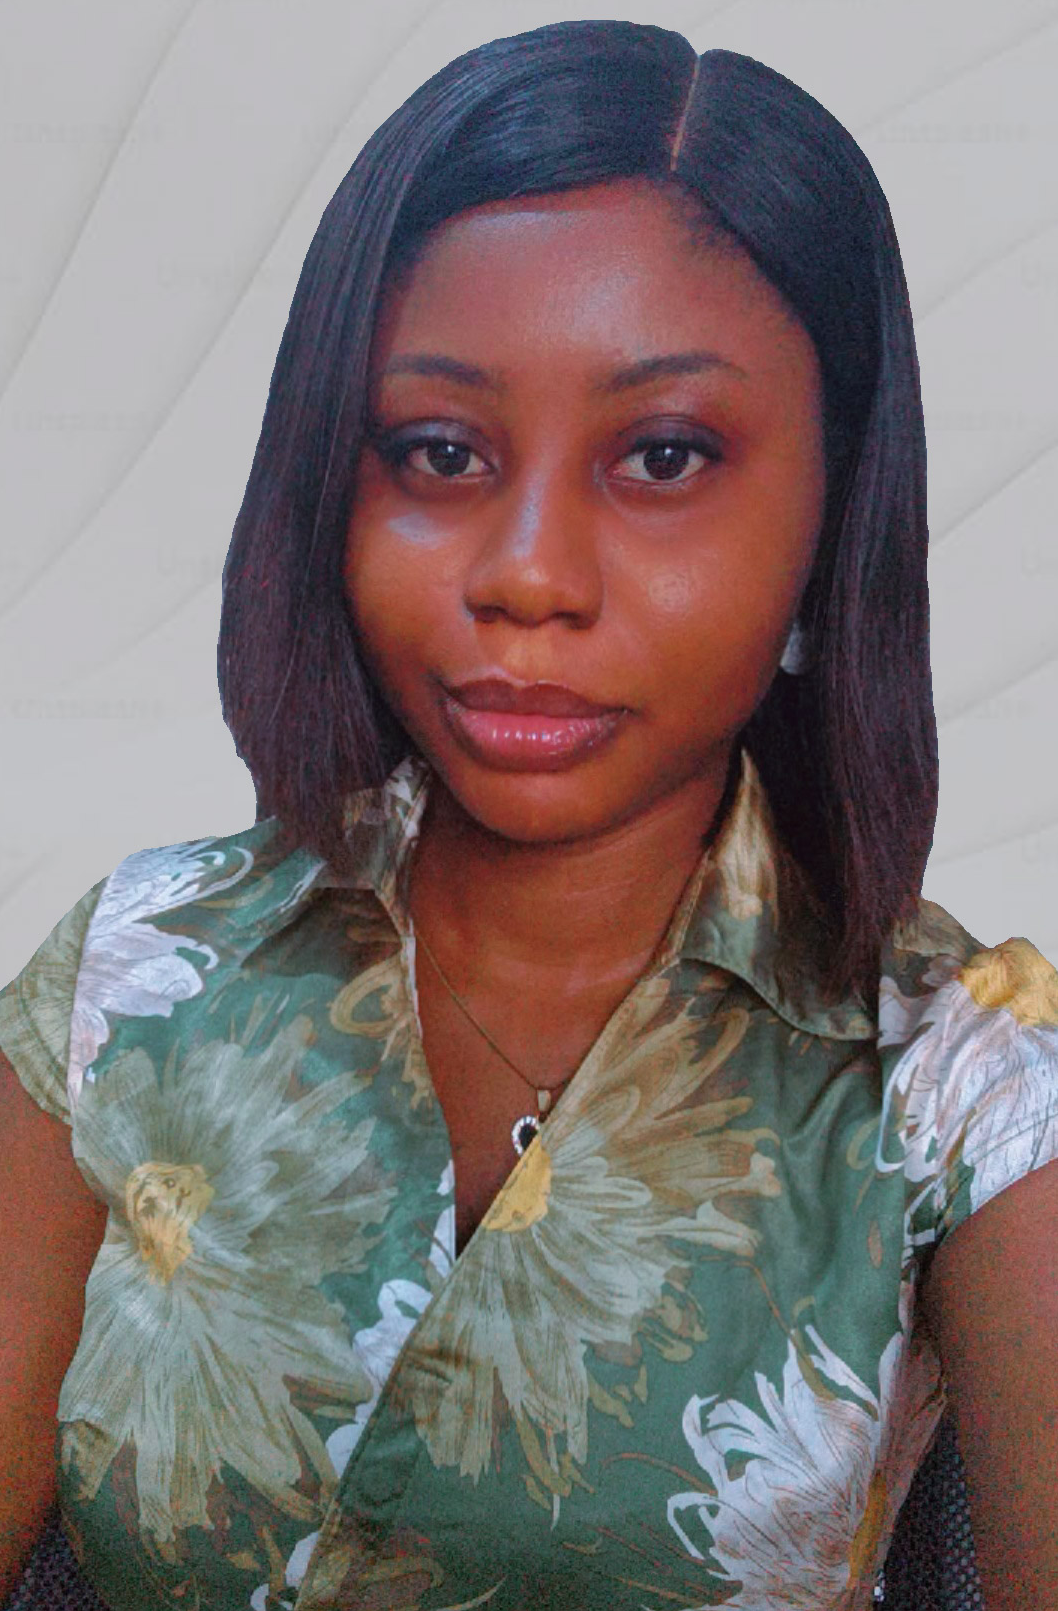
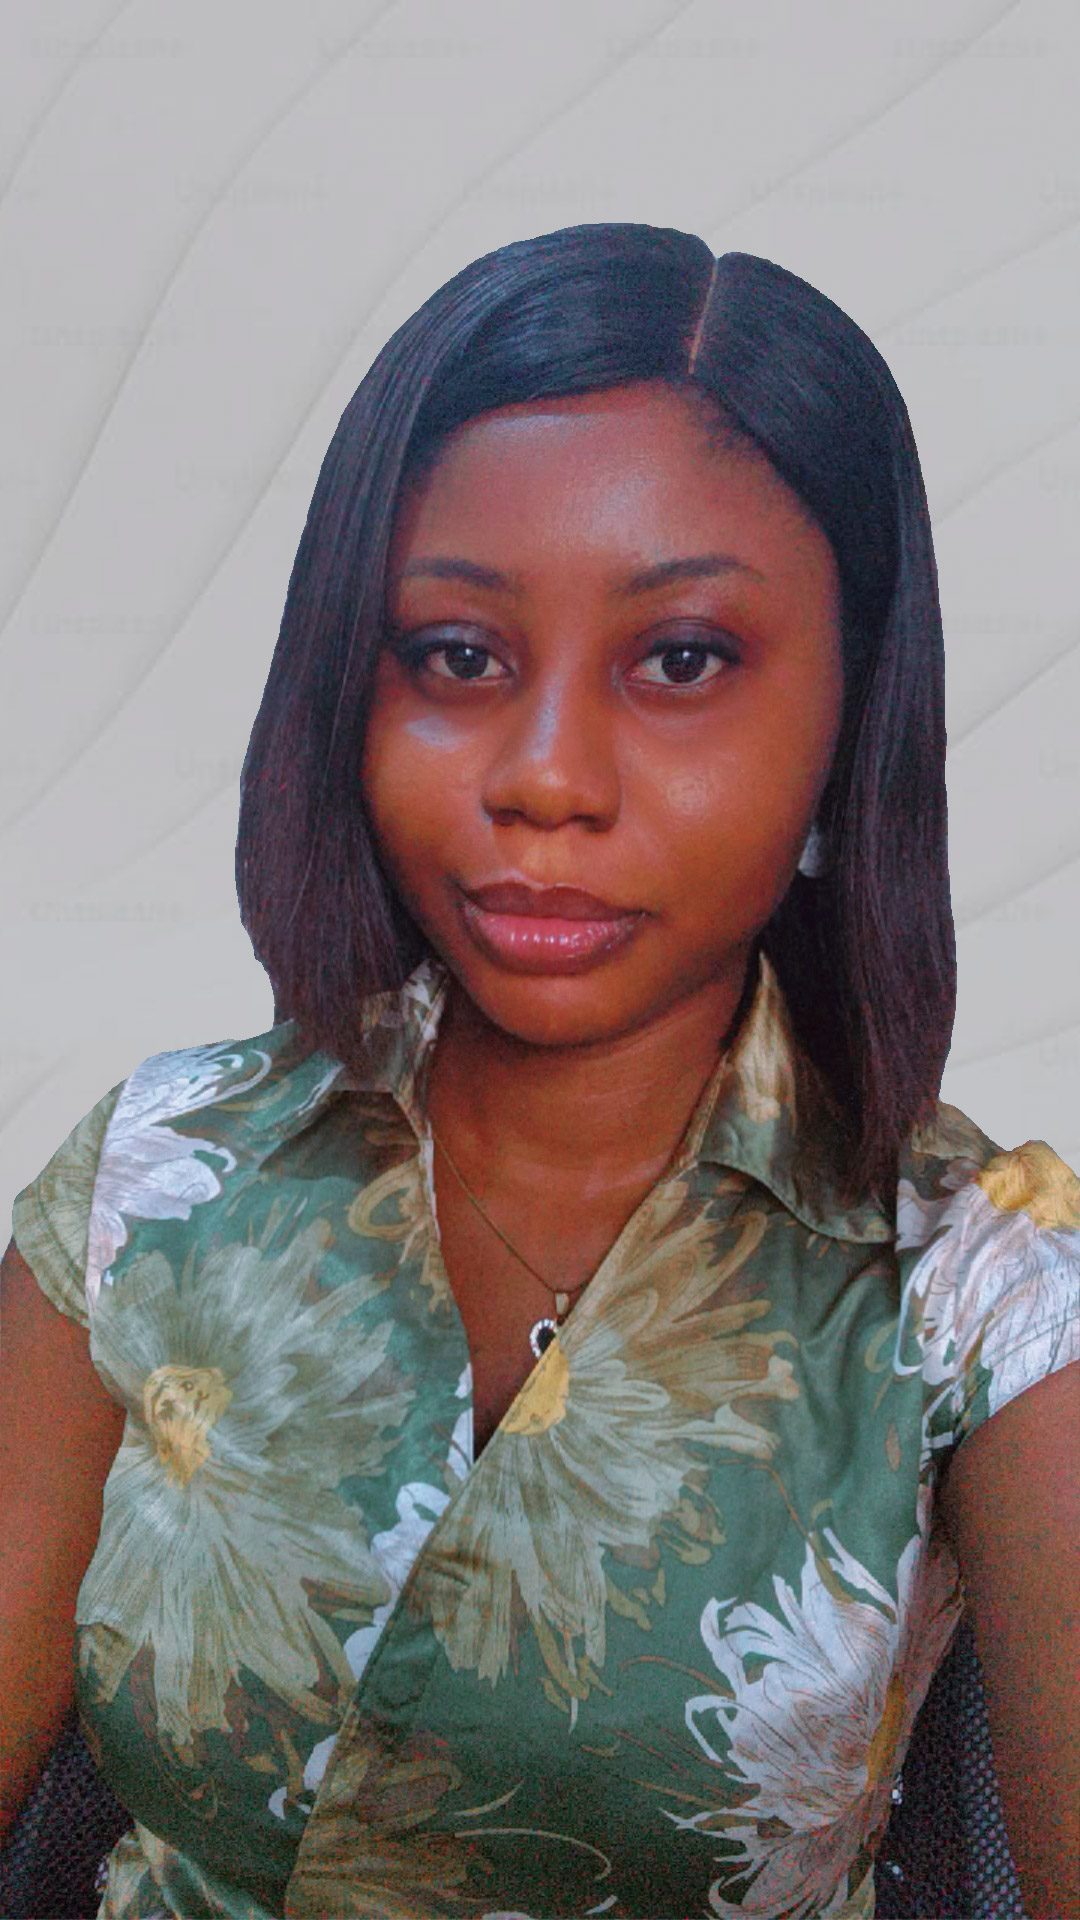
fix image distirtion

diff --git a/src/components/about/index.tsx b/src/components/about/index.tsx
@@ -20,14 +20,17 @@ export const About = () => {
 					transition={{ duration: 0.6, ease: "easeOut" }}
 					viewport={{ once: false, amount: 0.3 }}
 				>
-					<div className="relative border-2 rounded-xl w-full max-w-[24rem] h-96 border-neon">
-						<Image
-							src={data.image}
-							alt={data.name}
-							className="w-full h-full rounded-xl scale-90"
-							height={250}
-							width={250}
-						/>
+					<div className="border-2 rounded-xl w-full max-w-[24rem] h-[25rem] border-neon flex justify-center">
+						<div className="rounded-xl w-max h-full scale-90 overflow-hidden">
+							<Image
+								src={data.image}
+								alt={data.name}
+								className="w-full h-full object-contain object-top"
+								height={1000}
+								width={1500}
+								quality={100}
+							/>
+						</div>
 					</div>
 
 					<motion.div

diff --git a/src/data/index.ts b/src/data/index.ts
@@ -1,6 +1,6 @@
 const data = {
 	name: "Joy Okwudire",
-	image: "/avatar.jpg",
+	image: "/avatar2.png",
 	username: "chizycodes",
 	resumeUrl: "https://drive.google.com/file/d/1LGbGdAFTqqqMzH9z3sHyQOIEpKAa4i8j/view?usp=drive_link",
 	keywords:
